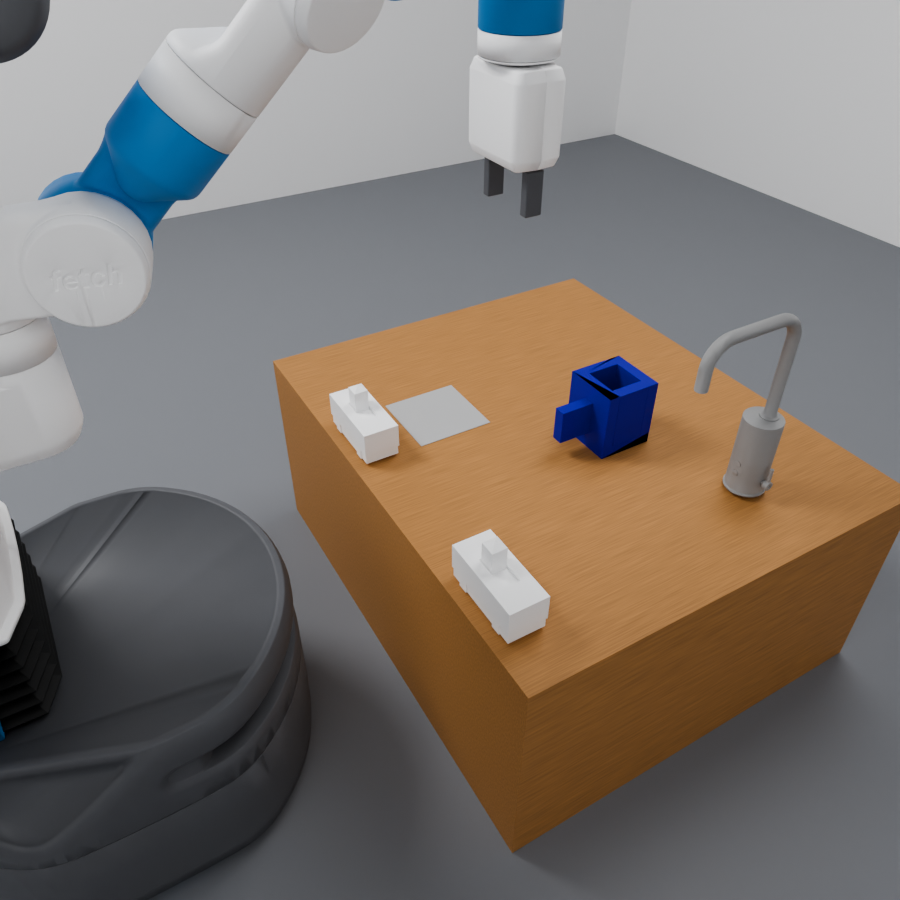
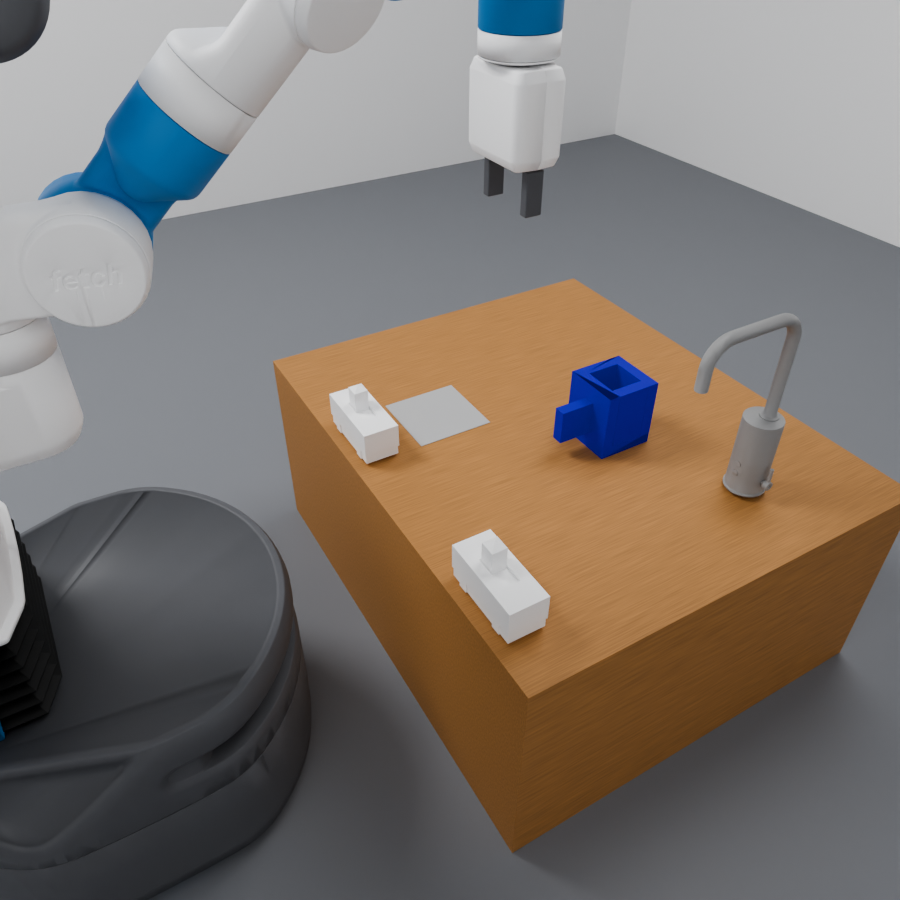
Lift shadows inside rendered Boil jugs

Changed region(s): [[0.6222, 0.4044, 0.7467, 0.5289]]

diff --git a/scripts/paper_figures/render_cycles_scene.py b/scripts/paper_figures/render_cycles_scene.py
@@ -57,6 +57,13 @@ def material_for(shape):
     bsdf.inputs['Base Color'].default_value = color
     bsdf.inputs['Roughness'].default_value = .48
     bsdf.inputs['Specular IOR Level'].default_value = .28
+    if shape['name'] == 'cup':
+        # The deep, saturated-blue cavity receives almost no indirect light in
+        # these compact studio scenes. A very small ambient material response
+        # keeps its interior readable without changing its geometry or the
+        # lighting on any other object.
+        bsdf.inputs['Emission Color'].default_value = color
+        bsdf.inputs['Emission Strength'].default_value = .50
     if shape['kind'] == 2:  # colored sphere, including balloons
         bsdf.inputs['Roughness'].default_value = .29
         bsdf.inputs['Coat Weight'].default_value = .22
